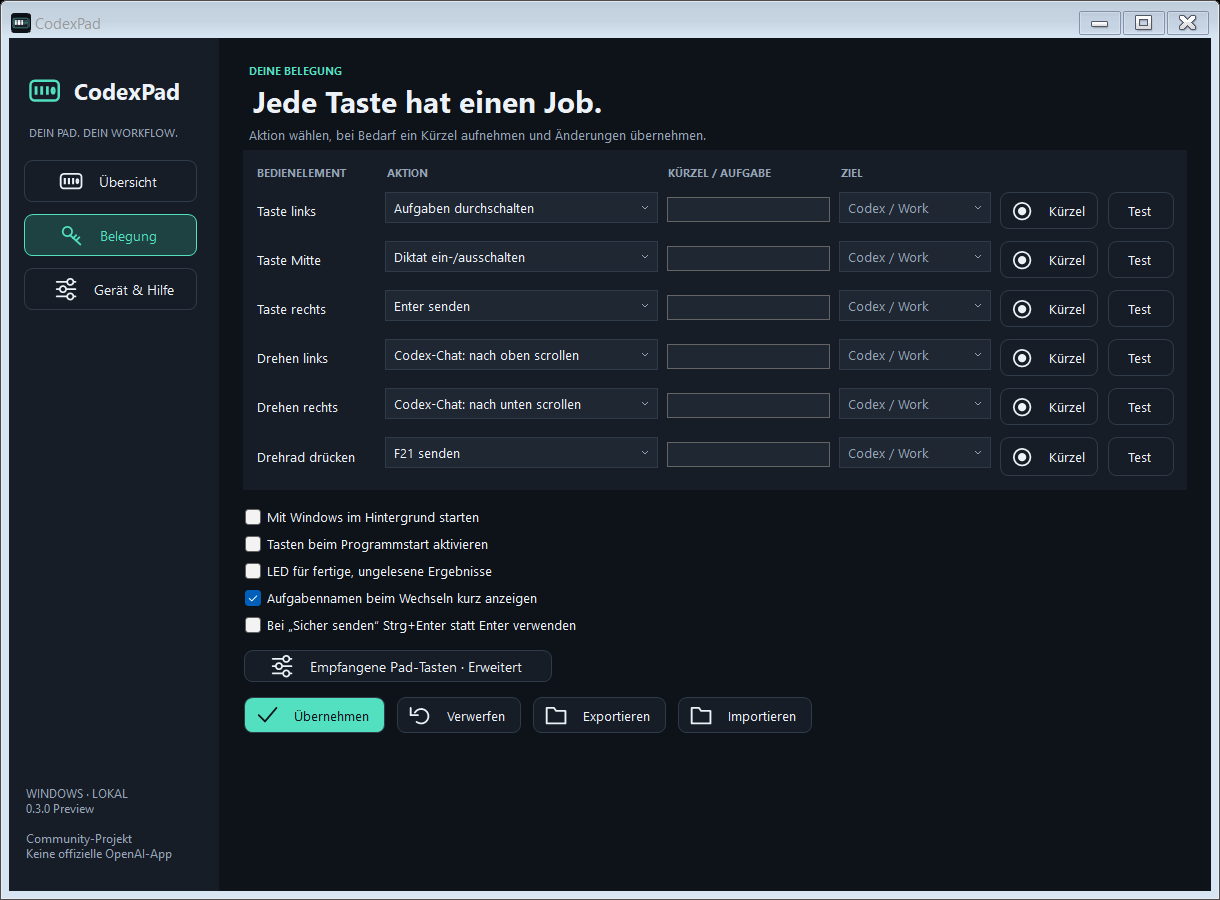
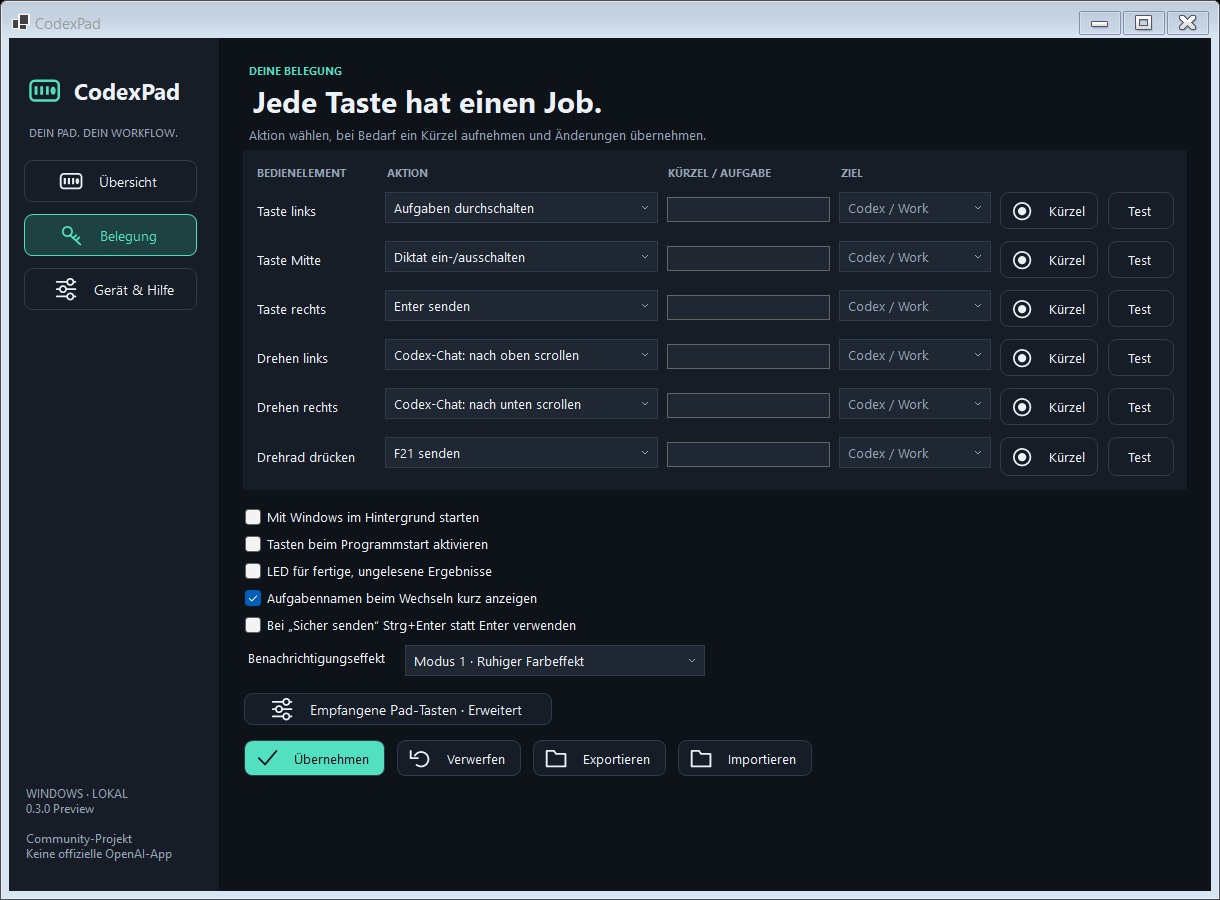
Add configurable notification LED effect and mode tests

Changed region(s): [[0.1869, 0.7156, 0.6541, 0.8711], [0.0, 0.0, 0.0311, 0.0311]]

diff --git a/ProductUi.cs b/ProductUi.cs
@@ -59,6 +59,7 @@ namespace CodexPad
             }
             controlEnter.Checked = value.SendWithControlEnter; autoStart.Checked = value.AutoStartWithWindows;
             completionLed.Checked = value.CompletionLed; activateOnLaunch.Checked = value.ActivateOnLaunch; showTaskNotice.Checked = value.ShowTaskNotice;
+            notificationLedMode.SelectedIndex = value.NotificationLedMode - 1;
             UpdateActiveLabels();
         }
         private void UpdateActiveLabels()
@@ -83,10 +84,12 @@ namespace CodexPad
             };
             result.Version = 2; result.SendWithControlEnter = controlEnter.Checked; result.AutoStartWithWindows = autoStart.Checked;
             result.CompletionLed = completionLed.Checked; result.ActivateOnLaunch = activateOnLaunch.Checked; result.ShowTaskNotice = showTaskNotice.Checked;
+            result.NotificationLedMode = notificationLedMode.SelectedIndex + 1;
             return result;
         }
         private static void ValidateConfig(Config value)
         {
+            if (value.NotificationLedMode != 1 && value.NotificationLedMode != 2) throw new ArgumentException("LED-Modus muss 1 oder 2 sein.");
             if (value.Bindings == null || value.Bindings.Count != 6) throw new ArgumentException("Genau sechs Belegungen sind erforderlich.");
             var used = new HashSet<string>();
             foreach (var b in value.Bindings) {
@@ -261,9 +264,9 @@ namespace CodexPad
                 foreach (var t in pending) unreadTasks.Items.Add("Ungelesenes Ergebnis · " + t.title);
                 if (pending.Count == 0) unreadTasks.Items.Add(current.led_known ? "Keine fertigen ungelesenen Ergebnisse." : "Lesestatus oder Aufgabenstatus derzeit nicht vollständig verfügbar.");
                 unreadTasks.EndUpdate();
-                int desired = ledPolicy.Desired(config.CompletionLed, current.led_known, pending.Count > 0, DateTime.UtcNow);
+                int desired = ledPolicy.Desired(config.CompletionLed, current.led_known, pending.Count > 0, DateTime.UtcNow, config.NotificationLedMode);
                 ledState.Text = !config.CompletionLed ? "LED-Automatik ausgeschaltet" : current.led_known ?
-                    "LED: " + (desired == 1 ? "Ergebnis bereit · " + pending.Count + " ungelesen" : "aus · alles gelesen oder noch in Arbeit") : "LED: Status unbekannt · nach 15 Sekunden ohne gültige Daten aus";
+                    "LED: " + (desired != 0 ? "Modus " + config.NotificationLedMode + " · Ergebnis bereit · " + pending.Count + " ungelesen" : "aus · alles gelesen oder noch in Arbeit") : "LED: Status unbekannt · nach 15 Sekunden ohne gültige Daten aus";
                 if (current.error != null && lastStatusError != current.error) { Note(current.error); lastStatusError = current.error; }
                 if (current.error == null) lastStatusError = null;
                 if (connected && DateTime.UtcNow >= ledTestUntil) {
@@ -274,7 +277,7 @@ namespace CodexPad
                 if (IsDisposed) return;
                 snapshot = null;
                 ledState.Text = "LED: Status unbekannt · Statusdienst wird erneut geprüft";
-                int desired = ledPolicy.Desired(config.CompletionLed, false, false, DateTime.UtcNow);
+                int desired = ledPolicy.Desired(config.CompletionLed, false, false, DateTime.UtcNow, config.NotificationLedMode);
                 if (lastStatusError != error.Message) { Note(error.Message); lastStatusError = error.Message; }
                 if (DateTime.UtcNow >= ledTestUntil) { try { await ApplyLed(desired); } catch { appliedLed = null; } }
             } finally { statusBusy = false; }

diff --git a/DesignUi.cs b/DesignUi.cs
@@ -9,6 +9,7 @@ namespace CodexPad
 {
     public sealed partial class PadForm
     {
+        private readonly ComboBox notificationLedMode = new PadCombo();
         private readonly Panel[] pages = new Panel[3];
         private readonly PadButton[] navigation = new PadButton[3];
         private readonly PictureBox[] actionIcons = new PictureBox[6];
@@ -149,6 +150,12 @@ namespace CodexPad
             completionLed.Text = "LED für fertige, ungelesene Ergebnisse"; showTaskNotice.Text = "Aufgabennamen beim Wechseln kurz anzeigen";
             controlEnter.Text = "Bei „Sicher senden“ Strg+Enter statt Enter verwenden";
             foreach (var box in new[] { autoStart, activateOnLaunch, completionLed, showTaskNotice, controlEnter }) { box.AutoSize = true; box.ForeColor = PadTheme.Text; box.Font = PadTheme.UiFont(9.5f); box.Margin = new Padding(2, 3, 2, 3); options.Controls.Add(box); }
+            var ledOptions = new FlowLayoutPanel { AutoSize = true, WrapContents = false, Margin = new Padding(0, 3, 0, 3) };
+            ledOptions.Controls.Add(new Label { Text = "Benachrichtigungseffekt", AutoSize = true, ForeColor = PadTheme.Text, Font = PadTheme.UiFont(9.5f), Margin = new Padding(2, 7, 12, 0) });
+            notificationLedMode.DropDownStyle = ComboBoxStyle.DropDownList;
+            notificationLedMode.Items.AddRange(new object[] { "Modus 1 · Ruhiger Farbeffekt", "Modus 2 · LEDs nacheinander" });
+            notificationLedMode.Width = 300; notificationLedMode.Font = PadTheme.UiFont(9.5f); PadTheme.StyleCombo(notificationLedMode);
+            ledOptions.Controls.Add(notificationLedMode); options.Controls.Add(ledOptions);
             editor.Controls.Add(options);
             var expert = new FlowLayoutPanel { Dock = DockStyle.Top, AutoSize = true, Visible = false, Margin = new Padding(0, 0, 0, 8), BackColor = PadTheme.Surface, Padding = new Padding(8) };
             var explanation = TextLabel("Nur für andere Hardware: Diese Signale empfängt die App vom Pad. Normalerweise F13–F18 unverändert lassen.", 9, muted: true); explanation.Height = 40; explanation.Width = 750; explanation.Dock = DockStyle.None; expert.Controls.Add(explanation); expert.SetFlowBreak(explanation, true);
@@ -178,7 +185,7 @@ namespace CodexPad
             AddButton(deviceButtons, "Eingaben testen", () => { StopListening(); LaunchHelper("PadTest.ps1", false); }); layout.Controls.Add(deviceButtons);
             layout.Controls.Add(TextLabel("LED-TEST\nDer Effekt läuft zehn Sekunden. Danach übernimmt wieder die Automatik.\nDas Pad unterstützt eingebaute Effekte, keine frei wählbare Farbe pro Taste.", 9.5f, muted: true));
             var tests = new FlowLayoutPanel { Dock = DockStyle.Fill, Margin = new Padding(0) };
-            AddButton(tests, "LED aus", async () => await TestLed(0)); AddButton(tests, "LED-Effekt", async () => await TestLed(1));
+            AddButton(tests, "LED aus", async () => await TestLed(0)); AddButton(tests, "Modus 1 testen", async () => await TestLed(1)); AddButton(tests, "Modus 2 testen", async () => await TestLed(2));
             AddButton(tests, "Anleitung", () => {
                 string doc = Path.Combine(AppContext.BaseDirectory, "README.md");
                 try { Process.Start(new ProcessStartInfo(doc) { UseShellExecute = true }); } catch (Exception e) { Note("Anleitung nicht geöffnet: " + e.Message); }

diff --git a/ProductTests.cs b/ProductTests.cs
@@ -42,6 +42,9 @@ namespace CodexPad
             Check(led.Desired(true, false, false, now.AddSeconds(16)) == 0, "Nach 15 Sekunden unbekannt aus");
             Check(led.Desired(true, true, true, now.AddSeconds(17)) == 1, "Erholung nach Ausfall");
             Check(led.Desired(false, true, true, now) == 0, "Deaktivierung schaltet aus");
+            Check(led.Desired(true, true, true, now, 2) == 2, "Modus 2 bei ungelesenem Ergebnis");
+            Check(led.Desired(true, false, false, now.AddSeconds(1), 1) == 1, "Effektwechsel während kurzer Statuslücke");
+            Check(led.Desired(true, true, false, now.AddSeconds(2), 2) == 0, "Modus 2 nach Lesen aus");
             Check(Shortcut.Parse("Strg+D").SequenceEqual(new byte[] { 0x11, 0x44 }), "Strg D");
             Check(Shortcut.Parse("Enter").SequenceEqual(new byte[] { 13 }), "Einfaches Enter");
             Check(Shortcut.Parse("F19").SequenceEqual(new byte[] { 0x82 }), "Drehrad-Ausgabe F19");
@@ -57,10 +60,13 @@ namespace CodexPad
                 var config = SettingsStore.Read(file);
                 Check(config.Version == 2 && config.Bindings[0].Action == "cycle", "Gezielte Migration links");
                 Check(config.Bindings[2].Action == "enter" && config.Bindings[5].Action == "effortMenu" && config.CompletionLed, "Bestehende Belegung erhalten");
+                Check(config.NotificationLedMode == 1, "Alte Einstellungen behalten Modus 1");
+                config.NotificationLedMode = 2;
                 var draft = SettingsStore.Copy(config); draft.Bindings[0].Action = "shortcut";
                 Check(config.Bindings[0].Action == "cycle", "Entwurf verändert aktive Einstellungen nicht");
                 SettingsStore.Write(file, config);
                 Check(Directory.GetFiles(Path.Combine(dir, "Einstellungen-Sicherungen")).Length == 1, "Sicherung vor Übernahme");
+                Check(SettingsStore.Read(file).NotificationLedMode == 2, "LED-Auswahl bleibt beim Speichern erhalten");
                 Check(SettingsStore.Read(file).Bindings[2].Action == "enter", "Export und Import erhalten einfaches Enter");
             } finally { Directory.Delete(dir, true); }
             return "OK: " + count + " Prüfungen (Aufgabenrunde, LED, Tastenkürzel, Migration und Sicherung).";

diff --git a/ProductCore.cs b/ProductCore.cs
@@ -66,15 +66,16 @@ namespace CodexPad
     {
         private DateTime? unknownSince;
         private int desired;
-        public int Desired(bool enabled, bool known, bool unreadCompleted, DateTime now)
+        public int Desired(bool enabled, bool known, bool unreadCompleted, DateTime now, int mode = 1)
         {
+            if (mode != 1 && mode != 2) throw new ArgumentException("LED-Modus muss 1 oder 2 sein.");
             if (!enabled) { desired = 0; unknownSince = null; return 0; }
             if (known) { unknownSince = null; desired = unreadCompleted ? 1 : 0; }
             else {
                 unknownSince ??= now;
                 if ((now - unknownSince.Value).TotalSeconds >= 15) desired = 0;
             }
-            return desired;
+            return desired == 0 ? 0 : mode;
         }
     }
 
@@ -86,6 +87,7 @@ namespace CodexPad
             var value = JsonSerializer.Deserialize<Config>(File.ReadAllText(path));
             if (value == null || value.Bindings == null || value.Bindings.Count != 6)
                 throw new InvalidDataException("Die Datei muss genau sechs Belegungen enthalten.");
+            if (value.NotificationLedMode != 1 && value.NotificationLedMode != 2) throw new InvalidDataException("LED-Modus muss 1 oder 2 sein.");
             if (value.Version > 2) throw new InvalidDataException("Diese Einstellungen stammen aus einer neueren Programmversion.");
             if (value.Version < 2) {
                 // Agreed upgrade: only replace the old left-button 'latest' action.

diff --git a/CodexPad.cs b/CodexPad.cs
@@ -1,4 +1,4 @@
-using System;
+using System;
 using System.Collections.Generic;
 using System.Diagnostics;
 using System.Drawing;
@@ -32,6 +32,7 @@ namespace CodexPad
         public bool AutoStartWithWindows { get; set; } = false;
         public bool ActivateOnLaunch { get; set; } = false;
         public bool CompletionLed { get; set; } = false;
+        public int NotificationLedMode { get; set; } = 1;
     }
 
     internal sealed class Choice

diff --git a/README.md b/README.md
@@ -62,7 +62,13 @@ Die Aufgabenrunde bleibt während des Durchschaltens stabil. Nach zehn Sekunden 
 
 Die LED signalisiert, dass mindestens eine erfasste lokale Aufgabe fertig und ungelesen ist. Sie geht aus, wenn alle betreffenden Ergebnisse gelesen wurden – auch beim Öffnen per Maus. Der Status wird ungefähr alle drei Sekunden geprüft. Bei anhaltend unbekannten Daten wird nach 15 Sekunden abgeschaltet.
 
-Es werden ausschließlich eingebaute Firmwareeffekte verwendet. Modus 1 ist ein tastenabhängiger Farbeffekt mit anschließendem Abdunkeln. Einzelne LED-Farben sind nicht frei steuerbar. Im laufenden Betrieb wird kein separater Flash-Speicherbefehl gesendet.
+Unter **Belegung → Benachrichtigungseffekt** kann Modus 1 oder 2 ausgewählt und mit **Übernehmen** gespeichert werden. Bestehende Einstellungen verwenden weiterhin Modus 1. Unter **Gerät & Hilfe** lassen sich beide Modi jeweils zehn Sekunden testen.
+
+- **Modus 0:** LEDs aus; wird automatisch nach dem Lesen verwendet.
+- **Modus 1:** tastenabhängiger Farbeffekt mit anschließendem Abdunkeln.
+- **Modus 2:** LEDs leuchten nacheinander.
+
+Es werden ausschließlich eingebaute Firmwareeffekte verwendet. Einzelne LED-Farben sind nicht frei steuerbar. Im laufenden Betrieb wird kein separater Flash-Speicherbefehl gesendet.
 
 ## Grenzen der Preview
 
